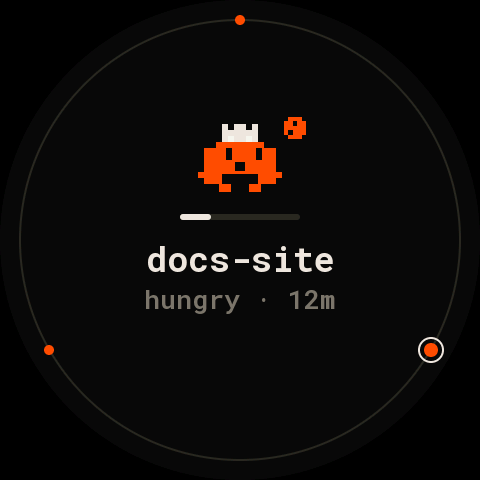
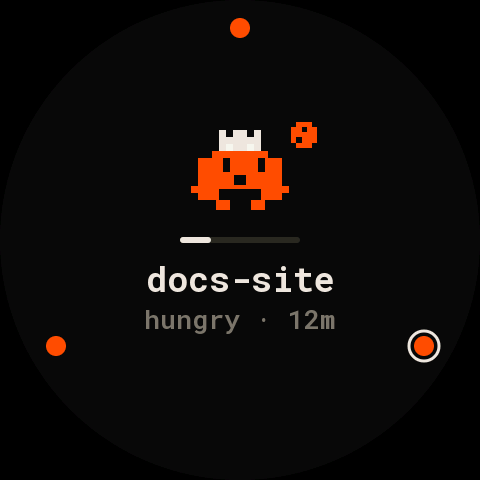
Dial: bigger dots without a line, the context bar at the centre
The owner's notes on the 2.1" home and detail:
- Home: no ring line under the dots; the dots are twice the size
  (homeDotRadius), on a radius of 212 so the biggest, with the selection
  ring, stays on the glass. The slider works as before.
- Home: the critter grows to x7 above the centre, the context bar sits at
  the very centre (y 240), the name and state move down below it.
- Detail (both boards): the name keeps 10 px clear of the context bar's
  inner edge on either side (detailTitleWidth).
- Tests: the dots inside the glass for 1 to 64 agents, the face's
  vertical order, the name's clearance. PNGs re-rendered.

The Orbit's home is unchanged (a new round home is being designed).

Claude-Session: https://claude.ai/code/session_01Qi6CVTpwKe76G62P4KuUZF

diff --git a/firmware/panel-core/src/layout_dial.h b/firmware/panel-core/src/layout_dial.h
@@ -20,16 +20,23 @@ static inline DialLayout layoutDial21() { return DialLayout{roundTheme(), detail
 
 namespace dial_detail {
 
-constexpr float kTrackR = 220;   // the slider: a ring at the edge, the fleet as dots on it
+constexpr float kTrackR = 212;   // the slider: the fleet as dots round the edge (no line drawn)
 
 static inline RPoint dot(int i, int n) { return polar(kRoundC, kRoundC, kTrackR, n ? 360.f * i / n : 0); }
 
 // The agent whose dot is nearest the angle.
+// The home's dots: twice the detail's, so a finger finds them.
+static inline float homeDotRadius(int n, bool waiting) { return 2 * dotRadius(n, waiting); }
+
 static inline int dotAt(int n, float ang) {
   if (n <= 0) return -1;
   const float per = 360.f / n;
   return ((int)lroundf(normDeg(ang) / per)) % n;
 }
+
+// The face: a big critter above the centre, the context bar at the centre,
+// the name and the state below.
+constexpr int kDialCritterScale = 7, kDialCritterCy = 172, kDialBarY = 240, kDialNameBase = 292;
 
 }  // namespace dial_detail
 
@@ -44,35 +51,36 @@ static inline void drawDialHome(Canvas& c, const DialLayout& L, const RoundInput
   if (waiting) c.fill(T.t.accent);
   const uint16_t ink = waiting ? T.t.bg : T.t.ink, dim = waiting ? T.t.bg : T.t.dim;
 
-  // The slider: a thin track at the edge with a dot per agent; the shown one
-  // ringed (and ringed in accent while a finger slides).
-  strokeCircle(c, kRoundC, kRoundC, kTrackR, 2, waiting ? T.darkAccent : T.t.line);
+  // The slider: a dot per agent round the edge; the shown one ringed (in
+  // accent while a finger slides).
   for (int i = 0; i < f.count; i++) {
     const Agent& o = f.agents[i];
     const RPoint p = dot(i, f.count);
-    const float r = dotRadius(f.count, o.status == Status::Waiting) + (i == cur ? 2 : 0);
+    const float r = homeDotRadius(f.count, o.status == Status::Waiting);
     fillDisc(c, p.x, p.y, r, waiting ? T.t.bg : statusColor(T, o));
-    if (i == cur) strokeCircle(c, p.x, p.y, r + 5, 2, in.ui->sliding ? (waiting ? T.t.bg : T.t.accent) : ink);
+    if (i == cur) strokeCircle(c, p.x, p.y, r + 5, 3, in.ui->sliding ? (waiting ? T.t.bg : T.t.accent) : ink);
   }
 
   // The agent: critter, a small context bar, the name, the state.
-  agentCritter(c, a, 240, 160, 6, waiting ? T.t.bg : bodyColor(T, a), waiting ? T.t.accent : T.t.bg, in.ms,
+  agentCritter(c, a, 240, kDialCritterCy, kDialCritterScale, waiting ? T.t.bg : bodyColor(T, a), waiting ? T.t.accent : T.t.bg, in.ms,
                in.nowEpoch, true);
   if (a.ctxWindow) {
-    const int w = 120, h = 6, x = 240 - w / 2, y = 214;
+    const int w = 120, h = 6, x = 240 - w / 2, y = kDialBarY - h / 2;   // the bar at the very centre
     fillPill(c, x, y, w, h, waiting ? T.darkAccent : T.t.line);
     const int fw = w * ctxPct(a) / 100;
     if (fw >= h) fillPill(c, x, y, fw, h, waiting ? T.t.bg : T.t.ink);
   }
   auto fit = [](const Font& fo, int base) { return fitWidth(fo, base, 40); };
-  textOn(c, FONT_R35, 240, 272, a.title[0] ? a.title : a.id, ink, fit(FONT_R35, 272));
+  textOn(c, FONT_R35, 240, kDialNameBase, a.title[0] ? a.title : a.id, ink, fit(FONT_R35, kDialNameBase));
   char buf[96];
   if (waiting) {
-    textOn(c, FONT_R30, 240, 312, a.waitTitle[0] ? a.waitTitle : "needs you", ink, fit(FONT_R30, 312));
-    textOn(c, FONT_XXL, 240, 348, canAct(in.scope) ? "tap to answer" : "tap to see it", ink, fit(FONT_XXL, 348));
+    textOn(c, FONT_R30, 240, kDialNameBase + 40, a.waitTitle[0] ? a.waitTitle : "needs you", ink,
+           fit(FONT_R30, kDialNameBase + 40));
+    textOn(c, FONT_XXL, 240, kDialNameBase + 74, canAct(in.scope) ? "tap to answer" : "tap to see it", ink,
+           fit(FONT_XXL, kDialNameBase + 74));
   } else {
     roundStateLine(a, in.nowEpoch, buf, sizeof buf);
-    textOn(c, FONT_XXL, 240, 310, buf, dim, fit(FONT_XXL, 310));
+    textOn(c, FONT_XXL, 240, kDialNameBase + 38, buf, dim, fit(FONT_XXL, kDialNameBase + 38));
   }
 }
 

diff --git a/firmware/panel-core/tests/test_round_view.cpp b/firmware/panel-core/tests/test_round_view.cpp
@@ -614,6 +614,11 @@ static void testBack() {
     // The critter clears the bar, and the text clears the critter.
     assert(S.critterCy - 11 * S.critterScale > 240 - (S.ringR - S.ringW / 2) + 4);
     assert(S.titleBase - fontAscent(*S.titleFont) > S.critterCy + 6 * S.critterScale);
+    // The name stays 10 px inside the context bar on both sides.
+    const float inner = S.ringR - S.ringW / 2;
+    const float half = detailTitleWidth(S) / 2.f;
+    const float top = S.titleBase - 0.74f * (S.titleFont->cellW / 0.6f);   // the capitals' top
+    assert(sqrtf(half * half + (240 - top) * (240 - top)) <= inner - 10 + 0.5f);
   }
 }
 
@@ -648,6 +653,17 @@ static void testSlider() {
   assert(!strcmp(f.agents[roundFeatured(ui, f)].id, "a05"));
   tap(ui, kDial, f, 240, 240, ms);
   assert(ui.screen == RoundScreen::Detail);
+  // The dots (twice the detail's) stay inside the glass, under the critter's hat; the bar sits at the centre.
+  for (int n : {1, 3, 8, 16, 22, 64})
+    for (int i = 0; i < n; i++) {
+      const RPoint d = dial_detail::dot(i, n);
+      const float r = dial_detail::homeDotRadius(n, true) + 5 + 3;   // with the selection ring
+      assert(sqrtf((float)(d.x - 240) * (d.x - 240) + (float)(d.y - 240) * (d.y - 240)) + r <= 240);
+    }
+  assert(dial_detail::kDialBarY == 240);
+  assert(dial_detail::kDialCritterCy + 6 * dial_detail::kDialCritterScale < dial_detail::kDialBarY - 8);
+  assert(dial_detail::kDialCritterCy - 11 * dial_detail::kDialCritterScale > 240 - 212 + 16 + 8);
+  assert(dial_detail::kDialNameBase - fontAscent(FONT_R35) > dial_detail::kDialBarY + 8);
   // The orbit's rim is no slider.
   RoundUi uo;
   roundSync(uo, kOrbit, f, ms);

diff --git a/firmware/panel-core/src/round_ui.h b/firmware/panel-core/src/round_ui.h
@@ -342,6 +342,11 @@ static inline float barExtent(const DetailStyle& S, int n) {
 
 constexpr uint32_t kRowAnimMs = 250;
 
+// The name keeps 10 px clear of the context bar's inner edge on either side.
+static inline int detailTitleWidth(const DetailStyle& S) {
+  return fitWidth(*S.titleFont, S.titleBase, (int)(240 - (S.ringR - S.ringW / 2)) + 10);
+}
+
 // Keeps the row's animation state current: call before drawing with what the
 // detail shows. A new agent starts without animation; a change of buttons
 // eases from the old row to the new over kRowAnimMs.
@@ -437,7 +442,7 @@ static inline void drawDetail(Canvas& c, const RoundTheme& T, const DetailStyle&
   const int s = S.critterScale;
   if (waiting) fillDisc(c, 240, S.critterCy, 12.f * s, T.t.accent);
   agentCritter(c, a, 240, S.critterCy, s, bodyColor(T, a), waiting ? T.t.accent : T.t.bg, in.ms, in.nowEpoch, !waiting);
-  textOn(c, *S.titleFont, 240, S.titleBase, a.title[0] ? a.title : a.id, T.t.ink);
+  textOn(c, *S.titleFont, 240, S.titleBase, a.title[0] ? a.title : a.id, T.t.ink, detailTitleWidth(S));
   roundStateLine(a, in.nowEpoch, buf, sizeof buf);
   const bool loud = a.status == Status::Running || waiting || a.status == Status::Error || hungry(a);
   textOn(c, *S.statusFont, 240, S.statusBase, buf, loud ? T.t.accent : T.t.dim);
